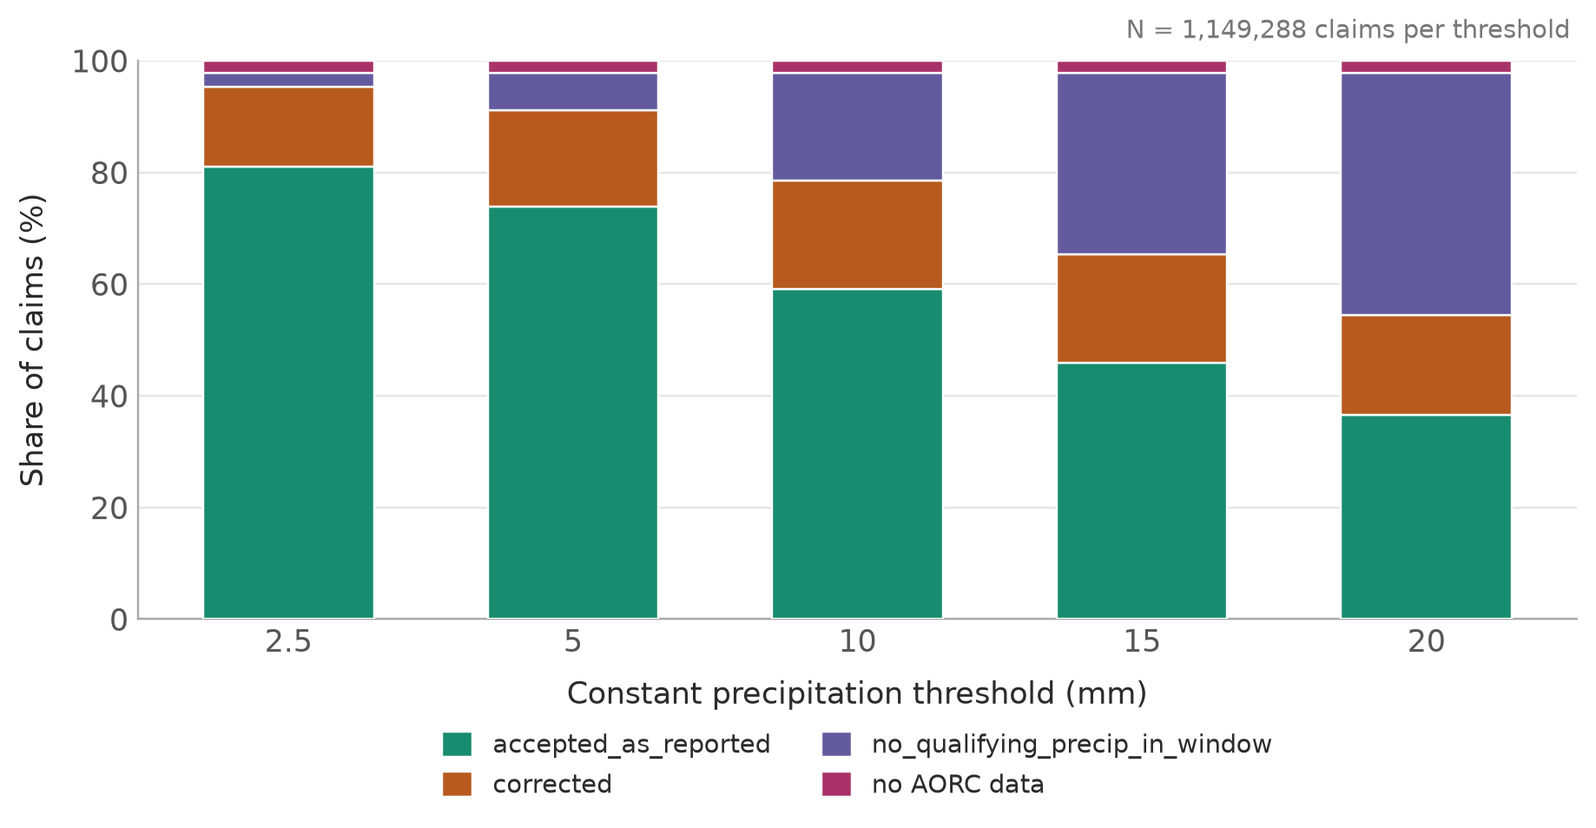
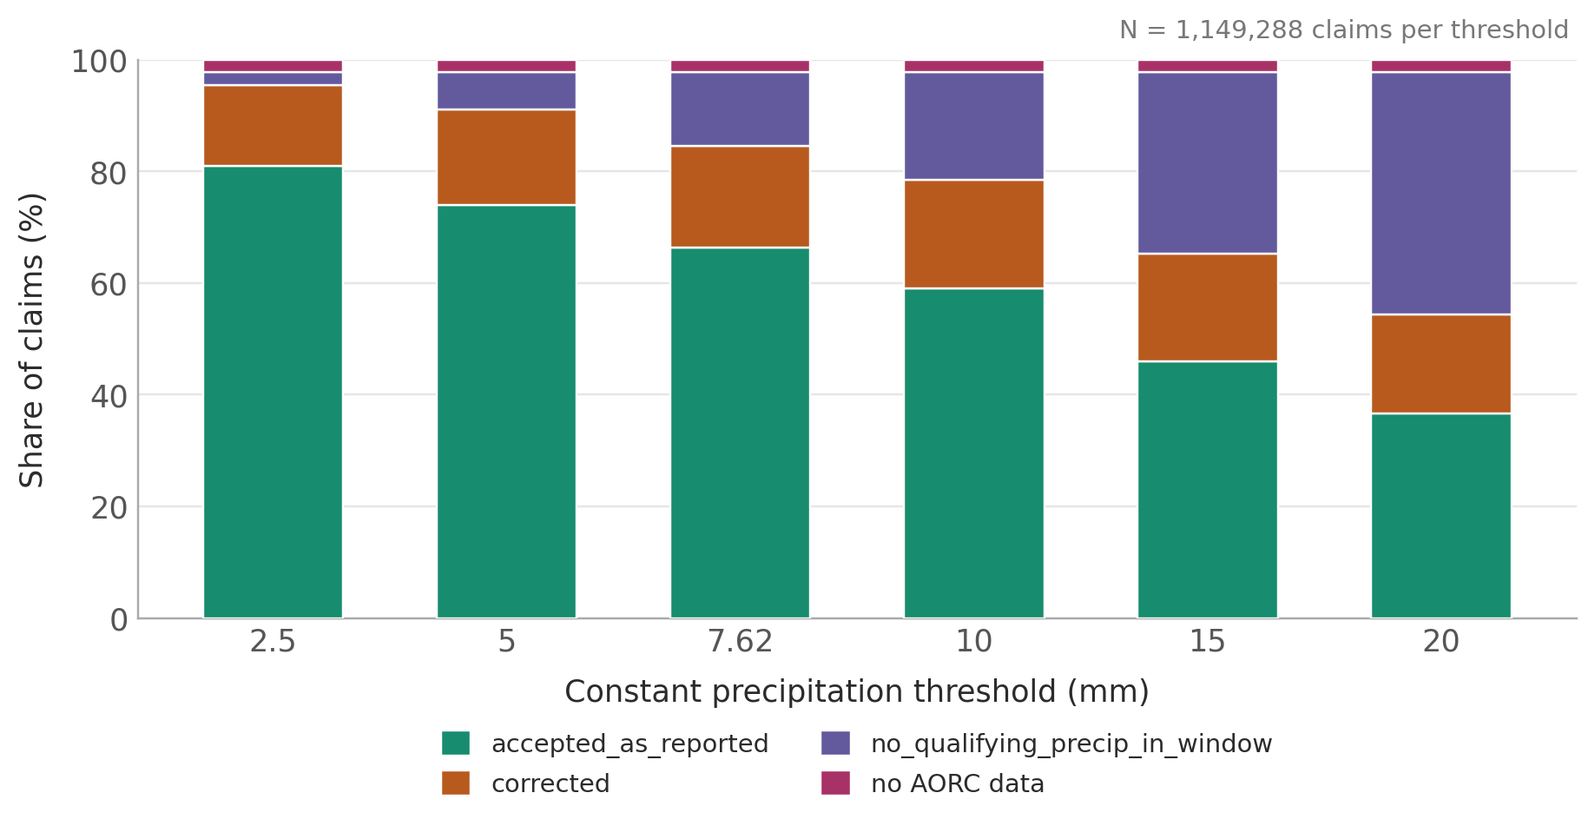
add: text

diff --git a/paper/manuscript.tex b/paper/manuscript.tex
@@ -12,6 +12,32 @@
   year         = {2026},
   url          = {https://stlouisfed.org},
 }
+@misc{ams_glossary_rain,
+  author       = {{American Meteorological Society}},
+  title        = {Rain},
+  howpublished = {Glossary of Meteorology, \url{https://glossary.ametsoc.org/wiki/Rain}},
+  year         = {2012},
+}
+
+@article{guerreiro_pluvial_2017,
+	title = {Pluvial {Flooding} in {European} {Cities}—{A} {Continental} {Approach} to {Urban} {Flood} {Modelling}},
+	volume = {9},
+	copyright = {http://creativecommons.org/licenses/by/3.0/},
+	issn = {2073-4441},
+	url = {https://www.mdpi.com/2073-4441/9/4/296},
+	doi = {10.3390/w9040296},
+	abstract = {Pluvial flooding is caused by localized intense rainfall and the flood models used to assess it are normally applied on a city (or part of a city) scale using local rainfall records and a high resolution digital elevation model (DEM). Here, we attempt to model pluvial flooding on a continental scale and calculate the percentage of area flooded for all European cities for a 10-year return period for hourly rainfall (RP10). Difficulties in obtaining hourly rainfall records compromise the estimation of each city RP10 and the Europe-wide DEM spatial resolution is low relative to those typically used for individual case-studies. Nevertheless, the modelling capabilities and necessary computing power make this type of continental study now possible. This is a first attempt at continental city flooding modelling and our methodology was designed so that our results can easily be updated as better/more data becomes available. The results for each city depend on the interplay of rainfall intensity, the elevation map of the city and the flow paths that are created. In general, cities with lower percentage of city flooded are in the north and west coastal areas of Europe, while the higher percentages are seen in continental and Mediterranean areas.},
+	language = {en},
+	number = {4},
+	urldate = {2026-08-18},
+	journal = {Water},
+	publisher = {Multidisciplinary Digital Publishing Institute},
+	author = {Guerreiro, Selma B. and Glenis, Vassilis and Dawson, Richard J. and Kilsby, Chris},
+	month = apr,
+	year = {2017},
+	keywords = {city flooding, Europe, pluvial flooding, urban flooding},
+	pages = {296},
+}
 
 
 @article{salas_learning_2023,
@@ -226,7 +252,7 @@ year = {2023}
 
 \end{filecontents*}
 
-\documentclass[7pt]{article}
+\documentclass[8pt]{article}
 
 \usepackage[margin=1in]{geometry}
 \usepackage{amsmath}
@@ -446,7 +472,7 @@ ZIP is matched to whichever configured ZCTA release is numerically
 closest to the loss year, including loss years before 2000, where the
 2000 release is the closest available (See \emph{Technical Validation}).
 
-Once a \emph{release} is selected, or unselected in the case of \texttt{drop}, we compute the spatial intersection of the boundaries (i.e. claim polygon = $\cap_{i}^{\text{n\_sources}} \text{polygon}_i$).
+Once a \emph{release} is selected, or unselected in the case of \texttt{drop}, we compute the spatial intersection of the boundaries (i.e. claim polygon = $\bigcap_{i=1}^{n} \text{polygon}_i$, where $n$ is the number of contributing sources).
 %
 In the worst case, we fall back to the $0.1 \times 0.1$ degree box defined by the rounded latitude/longitude, but in almost all cases the intersection of the three sources is a substantially smaller polygon.
 %
@@ -457,10 +483,28 @@ Our achieved spatial refinement is, however, not uniform in space and significan
 For each claim coded \texttt{causeOfDamage == "4"}, the reported
 \texttt{dateOfLoss} is checked against whether it coincides with a day
 of meaningful precipitation (maximum hourly precipitation exceeding a
-threshold, default 5.0 mm) at the claim's triangulated location.
-We refer to the NOAA AORC hourly accumulated precipitation product for reference.
+threshold, default 7.62 mm) at the claim's triangulated location.
+Peak hourly intensity, rather than daily-accumulated rainfall, is used
+as the criterion because pluvial flooding is characteristically caused
+by localized, intense rainfall and is conventionally assessed using
+local hourly rainfall records~\cite{guerreiro_pluvial_2017}. Pluvial
+flooding occurs when rainfall exceeds local drainage capacity within
+the short time it takes runoff to reach a drain or low point, so its
+risk is governed by short-duration rainfall intensity rather than by
+rainfall accumulated over a full day.
+
+To define this threshold, we refer to the NOAA AORC hourly accumulated precipitation product.
 %
-If the location's does not exceed the defined threshold, a window of nearby days (default $\pm$7) is searched for the day with the daily maximum hourly accumulated precipitation, and if that day clears the threshold it is treated as the corrected date. 
+If the reported date's precipitation does not exceed the defined threshold, a window of nearby days (default $\pm$7) is searched for the day with the daily maximum hourly accumulated precipitation, and if that day clears the threshold it is treated as the corrected date.
+%
+Within the window, the corrected date is chosen as the day with the
+greatest precipitation rather than the day nearest the reported date.
+This follows from a monotonic prior between precipitation intensity
+and pluvial flood risk. Among the days in the window that clear the qualifying
+threshold, the day with the highest precipitation is taken as the most
+probable candidate for the claim's true flood-triggering event,
+independent of which candidate day is closer in time to the reported
+date.
 %
 The original \texttt{dateOfLoss} is never overwritten. The corrected value and an explicit status code are added as new columns, letting downstream users decide whether to apply
 the correction.
@@ -473,7 +517,10 @@ A spatial field may be useful, as there is no principled reason a claim in an ar
 
 \begin{itemize}
   \item \textbf{Constant} --- the default, a single value applied
-    everywhere. The script defaults to 5.0 mm but this is configurable at run time.
+    everywhere. The script defaults to 7.62 mm (0.30 in), the threshold
+    the American Meteorological Society's Glossary of Meteorology uses
+    to define \emph{heavy} rainfall intensity~\cite{ams_glossary_rain},
+    but this is configurable at run time.
   \item \textbf{Spatial field} --- a user-supplied NetCDF raster
     sampled at each claim's exact location, giving a spatially varying
     threshold without requiring the raster to share AORC's grid or
@@ -522,15 +569,10 @@ are as follows.
     intersection of whichever of \{block-group boundary, ZCTA boundary,
     latitude/longitude box\} were available and spatially validated for the claim.
     Claims with zero contributing sources, or whose sources fail to
-    overlap one another (see \texttt{geometry\_is\_empty} below), are
-    excluded from the released file.
-  \item \texttt{n\_geometry\_sources} (0--3) and
+    overlap one another, are excluded from the released file.
+  \item \texttt{n\_geometry\_sources} (1--3) and
     \texttt{geometry\_sources} (e.g. \texttt{"block\_group+zip+latlon"})
     --- record which sources contributed.
-  \item \texttt{geometry\_is\_empty} --- true when a claim's sources
-    each individually validated against the reported latitude/longitude but do not
-    overlap one another. Such claims are dropped before the released
-    file is written, and the column is retained for downstream QA.
   \item \texttt{block\_group\_vintage\_used} and
     \texttt{zip\_vintage\_used} --- the boundary-release year (e.g.\
     1990, 2000, 2010, or 2020) selected for the claim by the
@@ -562,7 +604,7 @@ are as follows.
     reported \texttt{dateOfLoss}, before any correction. This is the
     value checked against the threshold to decide whether correction is
     attempted at all.
-  \item \texttt{pluvialCorrectionMaxPrecipMm} --- the maximum daily
+  \item \texttt{pluvialCorrectionMaxPrecipMm} --- the maximum hourly
     precipitation (mm) found at the claim's location on the date
     \texttt{correctedDateOfLoss} refers to.
 \end{itemize}
@@ -634,8 +676,8 @@ for block group, which is why \texttt{default} uses a single cutover
 year (2020) rather than a historical loss-year rule.
 
 Table~\ref{tab:block-group-match-status} gives the full
-\texttt{block\_group\_match\_status} breakdown across the release 
-file's full pluvial CONUS population using the \texttt{default} strategy. 
+\texttt{block\_group\_match\_status} breakdown across the released
+file's full pluvial CONUS population using the \texttt{default} strategy.
 
 \begin{table}[H]
 \centering
@@ -690,9 +732,9 @@ the near-flat match rates observed across all three ZCTA releases.
 Furthermore, the \texttt{closest} strategy aligns with existing work
 that joins NFIP claims to external sources (e.g.\ the American
 Community Survey)~\cite{cano_pecharroman_exposing_2024,
-crespo_flood_2019} and thus elect this strategy as the default for ZCTA.
+crespo_flood_2019} and thus we elect this strategy as the default for ZCTA.
 
-However, as with \texttt{block\_group\_strategy},the  \texttt{zcta\_strategy} parameter remains configurable.
+However, as with \texttt{block\_group\_strategy}, the \texttt{zcta\_strategy} parameter remains configurable.
 
 Table~\ref{tab:zip-match-status} gives the full \texttt{zip\_match\_status}
 breakdown across the released file's full pluvial CONUS population under the \texttt{default} strategy. 
@@ -742,23 +784,23 @@ triangulated polygon, across the released file's 1,149,288 claims.}
 
 Figure~\ref{fig:polygon-area-histogram} (top) and
 Table~\ref{tab:polygon-area-histogram} show the resulting distribution
-of triangulated \texttt{polygon\_area}. 909,180 claims (79.2\% of the
-1,148,274 claims falling within the 0--115 km$^2$ range shown) resolve
-to a polygon of 5 km$^2$ or smaller, and the distribution is
-heavily right-skewed, with claim counts falling off sharply past
-20 km$^2$. 1,014 claims (0.09\%) fall outside this range. The median
-triangulated polygon area is 1.17 km$^2$, and the mean is 5.21 km$^2$,
-pulled well above the median by this right tail.
+of triangulated \texttt{polygon\_area} across the released file's full
+1,149,288 claims, all of which fall within the 0--115 km$^2$ range
+shown. 910,194 claims (79.2\%) resolve to a polygon of 5 km$^2$ or
+smaller, and the distribution is heavily right-skewed, with claim
+counts falling off sharply past 20 km$^2$. The median triangulated
+polygon area is 1.17 km$^2$, and the mean is 5.21 km$^2$, pulled well
+above the median by this right tail.
 
 Figure~\ref{fig:polygon-area-histogram} (bottom) and
 Table~\ref{tab:area-reduction-histogram} show, for each claim, how the
 final triangulated \texttt{polygon\_area} compares to the area of the
 0.1$^\circ$$\times$0.1$^\circ$ lat/lon box source, computed as
 $1 - (\texttt{polygon\_area} / \text{lat-lon box area})$ and expressed
-as a percentage. Across the 1,148,432 claims with a defined lat/lon box
-source, 885,512 (77.1\%) show a reduction of at least 95.8\%, and the
-distribution is heavily left-skewed toward this upper end. The mean
-reduction is 94.9\%, and the median is 98.9\%.
+as a percentage. Across the released file's 1,149,288 claims, 923,947
+(80.4\%) show a reduction of at least 94.7\%, and the distribution is
+heavily left-skewed toward this upper end. The mean reduction is
+94.9\%, and the median is 98.9\%.
 
 \begin{figure}[H]
 \centering
@@ -781,7 +823,7 @@ lat/lon box source area and the final triangulated
 
 \textbf{Date-correction outcomes.} Table~\ref{tab:pluvial-correction-status}
 gives the full \texttt{pluvialCorrectionStatus} breakdown across the
-released file's 1,149,288 claims, under the default 5.0 mm constant
+released file's 1,149,288 claims, under the default 7.62 mm constant
 precipitation threshold. \texttt{no\_aorc\_data\_in\_window} arises,
 for example, when a claim sits on a small land mass whose four
 surrounding AORC grid points for bilinear interpolation are all ocean
@@ -792,18 +834,33 @@ Figure~\ref{fig:precip-histogram} and
 Table~\ref{tab:precip-histogram} show the distribution of
 \texttt{reportedDateMaxPrecipMm}, the maximum hourly precipitation at
 each pluvial claim's triangulated location on the reported
-\texttt{dateOfLoss}, before any correction is applied. Of the
-1,037,422 claims evaluated for date correction, 187,805 (18.1\%) fall
-at or below the 5.0 mm default threshold, the population eligible to
-have their date corrected under the default constant threshold.
+\texttt{dateOfLoss}, before any correction is applied. This value is
+populated only when AORC has valid data on that specific date, a
+narrower condition than the one \texttt{pluvialCorrectionStatus} is
+decided under, which instead uses the best precipitation found
+anywhere across the full $\pm$7-day search window. A claim can
+therefore still be \texttt{corrected} or
+\texttt{no\_qualifying\_precip\_in\_window} even when AORC is missing
+data on the reported date itself, so long as some other day in the
+window has data, leaving \texttt{reportedDateMaxPrecipMm} undefined
+for 111,866 of the released file's 1,149,288 claims. Of these, 12,425
+are \texttt{before\_aorc\_coverage} (never evaluated) and 12,201 are
+\texttt{no\_aorc\_data\_in\_window} (no day in the window has data, the
+reported date included), while the remaining 87,240 are
+\texttt{corrected} or \texttt{no\_qualifying\_precip\_in\_window}
+claims resolved from a different day in the window than the one
+missing data. Of the 1,037,422 claims with a defined
+\texttt{reportedDateMaxPrecipMm}, 275,139 (26.5\%) fall at or below
+the 7.62 mm default threshold, the population eligible to have their
+date corrected under the default constant threshold.
 
-Under the default uniform 5.0 mm threshold, 198,180 of 1,149,288 claims (17.2\%) have a
+Under the default uniform 7.62 mm threshold, 210,488 of 1,149,288 claims (18.3\%) have a
 \texttt{correctedDateOfLoss} that differs from the originally reported
 \texttt{dateOfLoss}. Figure~\ref{fig:threshold-sweep} and
 Table~\ref{tab:threshold-sweep} show how the full
 \texttt{pluvialCorrectionStatus} breakdown responds to the constant
-precipitation threshold, swept over five values (2.5, 5, 10, 15, and
-20 mm) with the search window otherwise unchanged. The
+precipitation threshold, swept over six values (2.5, 5, 7.62, 10, 15,
+and 20 mm) with the search window otherwise unchanged. The
 \texttt{corrected} share is not monotonic in the threshold. It rises
 from 14.3\% at 2.5 mm to a peak of 19.4\% at 10 mm, then falls to
 17.8\% at 20 mm, reflecting two opposing effects as the threshold
@@ -818,7 +875,7 @@ are each unaffected by the threshold and together account for a
 constant 2.1\% of claims across the sweep.
 
 Figure~\ref{fig:day-shift-histogram} and
-Table~\ref{tab:day-shift-histogram} show, for the same five
+Table~\ref{tab:day-shift-histogram} show, for the same six
 thresholds, the distribution of the resulting shift in
 \texttt{correctedDateOfLoss} away from the originally reported
 \texttt{dateOfLoss}. The figure covers \texttt{corrected} claims only,
@@ -847,15 +904,16 @@ the table.
 \toprule
 \texttt{pluvialCorrectionStatus} & $n$ claims & \% & Why \\
 \midrule
-\texttt{accepted\_as\_reported} & 849{,}618 & 73.93\% & Reported date already coincided with meaningful precipitation \\
-\texttt{corrected} & 198{,}180 & 17.24\% & A qualifying day was found within the search window \\
-\texttt{no\_qualifying\_precip\_in\_window} & 76{,}864 & 6.69\% & AORC data was available, but no day in the window cleared the threshold \\
+\texttt{accepted\_as\_reported} & 762{,}284 & 66.33\% & Reported date already coincided with meaningful precipitation \\
+\texttt{corrected} & 210{,}488 & 18.31\% & A qualifying day was found within the search window \\
+\texttt{no\_qualifying\_precip\_in\_window} & 151{,}890 & 13.22\% & AORC data was available, but no day in the window cleared the threshold \\
 \texttt{before\_aorc\_coverage} & 12{,}425 & 1.08\% & \texttt{dateOfLoss} predates AORC's 1979-02-01 start, never evaluated \\
 \texttt{no\_aorc\_data\_in\_window} & 12{,}201 & 1.06\% & Evaluated, but every hour of every day in the search window was missing from AORC \\
 \bottomrule
 \end{tabular}
 \caption{\texttt{pluvialCorrectionStatus} breakdown across the full
-released population. For \texttt{accepted\_as\_reported} and
+released population, under the default 7.62 mm constant precipitation
+threshold. For \texttt{accepted\_as\_reported} and
 \texttt{corrected}, \texttt{correctedDateOfLoss} reflects a day of
 qualifying precipitation. For the remaining statuses it equals the
 originally reported date, per its always-populated fallback behavior
@@ -866,8 +924,8 @@ described in Data Records.}
 \begin{figure}[H]
 \centering
 \includegraphics[width=0.75\textwidth]{figures/precip_histogram.png}
-\caption{Distribution of \texttt{reportedDateMaxPrecipMm} across
-pluvial claims evaluated for date correction.}
+\caption{Distribution of \texttt{reportedDateMaxPrecipMm} across the
+1,037,422 pluvial claims with a defined \texttt{reportedDateMaxPrecipMm}.}
 \label{fig:precip-histogram}
 \end{figure}
 
@@ -877,8 +935,9 @@ pluvial claims evaluated for date correction.}
 \centering
 \includegraphics[width=0.75\textwidth]{figures/threshold_sweep.png}
 \caption{\texttt{pluvialCorrectionStatus} breakdown across the
-released file's claims, swept over five constant precipitation
-thresholds (2.5, 5, 10, 15, and 20 mm). \texttt{no\_aorc\_data}
+released file's claims, swept over six constant precipitation
+thresholds (2.5, 5, 7.62, 10, 15, and 20 mm; 7.62 mm is the released
+default). \texttt{no\_aorc\_data}
 combines \texttt{no\_aorc\_data\_in\_window} with the
 threshold-invariant \texttt{before\_aorc\_coverage}.}
 \label{fig:threshold-sweep}
@@ -892,7 +951,8 @@ threshold-invariant \texttt{before\_aorc\_coverage}.}
 \caption{Distribution of the shift in \texttt{correctedDateOfLoss}
 away from the originally reported \texttt{dateOfLoss} (days, negative
 = earlier) among \texttt{corrected} claims, one row per constant
-precipitation threshold swept (2.5, 5, 10, 15, and 20 mm).}
+precipitation threshold swept (2.5, 5, 7.62, 10, 15, and 20 mm; 7.62
+mm is the released default).}
 \label{fig:day-shift-histogram}
 \end{figure}
 

diff --git a/paper/tables/day_shift_histogram.tex b/paper/tables/day_shift_histogram.tex
@@ -8,11 +8,12 @@ Threshold (mm) & $-7$ & $-6$ & $-5$ & $-4$ & $-3$ & $-2$ & $-1$ & $0$ & $+1$ & $
 \midrule
 2.5 & 0.7\% & 0.7\% & 0.8\% & 0.9\% & 1.0\% & 1.6\% & 3.1\% & 81.0\% & 1.3\% & 1.0\% & 0.5\% & 0.5\% & 0.6\% & 0.8\% & 0.8\% \\
 5 & 0.7\% & 0.7\% & 0.8\% & 1.0\% & 1.1\% & 1.9\% & 4.9\% & 73.9\% & 1.8\% & 1.0\% & 0.5\% & 0.5\% & 0.8\% & 0.8\% & 0.9\% \\
+\rowcolor{gray!15}7.62\textsuperscript{*} & 0.7\% & 0.6\% & 0.7\% & 0.9\% & 1.2\% & 1.9\% & 5.7\% & 66.3\% & 2.8\% & 0.8\% & 0.5\% & 0.5\% & 0.5\% & 0.8\% & 0.8\% \\
 10 & 0.7\% & 0.6\% & 0.7\% & 1.0\% & 1.2\% & 1.8\% & 5.9\% & 59.1\% & 3.6\% & 0.8\% & 0.5\% & 0.5\% & 0.4\% & 0.7\% & 0.9\% \\
 15 & 0.6\% & 0.5\% & 0.6\% & 1.3\% & 1.3\% & 1.5\% & 5.7\% & 46.0\% & 4.9\% & 0.7\% & 0.4\% & 0.4\% & 0.4\% & 0.4\% & 0.8\% \\
 20 & 0.4\% & 0.4\% & 0.4\% & 1.4\% & 1.2\% & 1.3\% & 5.0\% & 36.6\% & 5.3\% & 0.6\% & 0.3\% & 0.3\% & 0.3\% & 0.3\% & 0.6\% \\
 \bottomrule
 \end{tabular}
-\caption{Share of the released file's 1,149,288 claims by shift in \texttt{correctedDateOfLoss} away from the originally reported \texttt{dateOfLoss} (days, negative = earlier), swept over five constant precipitation thresholds, with every column sharing the same 1,149,288-claim denominator. The $0$ column holds \texttt{accepted\_as\_reported} claims, for which \texttt{correctedDateOfLoss} equals \texttt{dateOfLoss} by definition (shift $=0$); the $\pm1$ through $\pm7$ columns hold \texttt{corrected} claims. Claims with \texttt{no\_qualifying\_precip\_in\_window} or no AORC data are never assigned a shift and so are outside this table's scope, which is why rows do not sum to 100\%. Table~\ref{tab:threshold-sweep} gives the full \texttt{pluvialCorrectionStatus} breakdown per threshold.}
+\caption{Share of the released file's 1,149,288 claims by shift in \texttt{correctedDateOfLoss} away from the originally reported \texttt{dateOfLoss} (days, negative = earlier), swept over six constant precipitation thresholds, with every column sharing the same 1,149,288-claim denominator. \textsuperscript{*}7.62 mm (shaded) is the released default. The $0$ column holds \texttt{accepted\_as\_reported} claims, for which \texttt{correctedDateOfLoss} equals \texttt{dateOfLoss} by definition (shift $=0$); the $\pm1$ through $\pm7$ columns hold \texttt{corrected} claims. Claims with \texttt{no\_qualifying\_precip\_in\_window} or no AORC data are never assigned a shift and so are outside this table's scope, which is why rows do not sum to 100\%. Table~\ref{tab:threshold-sweep} gives the full \texttt{pluvialCorrectionStatus} breakdown per threshold.}
 \label{tab:day-shift-histogram}
 \end{table}

diff --git a/paper/tables/area_reduction_histogram.tex b/paper/tables/area_reduction_histogram.tex
@@ -4,20 +4,18 @@
 \toprule
 Bin (\%) & $n$ claims & \% & Bin (\%) & $n$ claims & \% \\
 \midrule
-0.0--4.2 & 967 & 0.1\% & 50.0--54.2 & 3,233 & 0.3\% \\
-4.2--8.3 & 811 & 0.1\% & 54.2--58.3 & 4,749 & 0.4\% \\
-8.3--12.5 & 922 & 0.1\% & 58.3--62.5 & 5,466 & 0.5\% \\
-12.5--16.7 & 870 & 0.1\% & 62.5--66.7 & 6,985 & 0.6\% \\
-16.7--20.8 & 1,055 & 0.1\% & 66.7--70.8 & 8,474 & 0.7\% \\
-20.8--25.0 & 977 & 0.1\% & 70.8--75.0 & 9,682 & 0.8\% \\
-25.0--29.2 & 1,119 & 0.1\% & 75.0--79.2 & 12,403 & 1.1\% \\
-29.2--33.3 & 2,500 & 0.2\% & 79.2--83.3 & 16,478 & 1.4\% \\
-33.3--37.5 & 2,092 & 0.2\% & 83.3--87.5 & 27,118 & 2.4\% \\
-37.5--41.7 & 2,394 & 0.2\% & 87.5--91.7 & 43,559 & 3.8\% \\
-41.7--45.8 & 2,420 & 0.2\% & 91.7--95.8 & 104,249 & 9.1\% \\
-45.8--50.0 & 4,397 & 0.4\% & 95.8--100.0 & 885,512 & 77.1\% \\
+0.0--5.3 & 1,959 & 0.2\% & 52.6--57.9 & 5,820 & 0.5\% \\
+5.3--10.5 & 1,268 & 0.1\% & 57.9--63.2 & 6,792 & 0.6\% \\
+10.5--15.8 & 894 & 0.1\% & 63.2--68.4 & 9,839 & 0.9\% \\
+15.8--21.1 & 1,382 & 0.1\% & 68.4--73.7 & 11,287 & 1.0\% \\
+21.1--26.3 & 1,265 & 0.1\% & 73.7--78.9 & 14,909 & 1.3\% \\
+26.3--31.6 & 2,718 & 0.2\% & 78.9--84.2 & 21,492 & 1.9\% \\
+31.6--36.8 & 2,381 & 0.2\% & 84.2--89.5 & 39,238 & 3.4\% \\
+36.8--42.1 & 2,826 & 0.2\% & 89.5--94.7 & 92,900 & 8.1\% \\
+42.1--47.4 & 4,048 & 0.4\% & 94.7--100.0 & 923,947 & 80.4\% \\
+47.4--52.6 & 4,323 & 0.4\% &  & &  \\
 \bottomrule
 \end{tabular}
-\caption{Bin counts of the fractional area reduction between the 0.1$^\circ$$\times$0.1$^\circ$ lat/lon box source area and the final triangulated \texttt{polygon\_area}, across the 1,148,432 claims with a defined lat/lon box source.}
+\caption{Bin counts of the fractional area reduction between the 0.1$^\circ$$\times$0.1$^\circ$ lat/lon box source area and the final triangulated \texttt{polygon\_area}, across the released file's 1,149,288 claims.}
 \label{tab:area-reduction-histogram}
 \end{table}

diff --git a/paper/tables/threshold_sweep.tex b/paper/tables/threshold_sweep.tex
@@ -7,11 +7,12 @@ Threshold (mm) & accepted as reported & corrected & no qualifying precip in wind
 \midrule
 2.5 & 81.0\% & 14.3\% & 2.5\% & 2.1\% \\
 5 & 73.9\% & 17.2\% & 6.7\% & 2.1\% \\
+\rowcolor{gray!15}7.62\textsuperscript{*} & 66.3\% & 18.3\% & 13.2\% & 2.1\% \\
 10 & 59.1\% & 19.4\% & 19.4\% & 2.1\% \\
 15 & 46.0\% & 19.3\% & 32.5\% & 2.1\% \\
 20 & 36.6\% & 17.8\% & 43.4\% & 2.1\% \\
 \bottomrule
 \end{tabular}
-\caption{\texttt{pluvialCorrectionStatus} share of the released file's 1,149,288 claims, swept over five constant precipitation thresholds. Columns correspond to \texttt{accepted\_as\_reported}, \texttt{corrected}, \texttt{no\_qualifying\_precip\_in\_window}, and, combined, \texttt{no\_aorc\_data\_in\_window} with the threshold-invariant \texttt{before\_aorc\_coverage}. Table~\ref{tab:pluvial-correction-status} gives the full $n$ claims breakdown at the default 5.0 mm threshold.}
+\caption{\texttt{pluvialCorrectionStatus} share of the released file's 1,149,288 claims, swept over six constant precipitation thresholds. Columns correspond to \texttt{accepted\_as\_reported}, \texttt{corrected}, \texttt{no\_qualifying\_precip\_in\_window}, and, combined, \texttt{no\_aorc\_data\_in\_window} with the threshold-invariant \texttt{before\_aorc\_coverage}. \textsuperscript{*}7.62 mm (shaded) is the released default. Table~\ref{tab:pluvial-correction-status} gives the full $n$ claims breakdown at this default threshold.}
 \label{tab:threshold-sweep}
 \end{table}

diff --git a/paper/tables/polygon_area_histogram.tex b/paper/tables/polygon_area_histogram.tex
@@ -4,7 +4,7 @@
 \toprule
 Bin (km$^2$) & $n$ claims & \% & Bin (km$^2$) & $n$ claims & \% \\
 \midrule
-0--5 & 909,180 & 79.1\% & 60--65 & 2,829 & 0.2\% \\
+0--5 & 910,194 & 79.2\% & 60--65 & 2,829 & 0.2\% \\
 5--10 & 97,544 & 8.5\% & 65--70 & 2,349 & 0.2\% \\
 10--15 & 40,798 & 3.5\% & 70--75 & 2,232 & 0.2\% \\
 15--20 & 24,614 & 2.1\% & 75--80 & 1,585 & 0.1\% \\
@@ -18,6 +18,6 @@ Bin (km$^2$) & $n$ claims & \% & Bin (km$^2$) & $n$ claims & \% \\
 55--60 & 3,395 & 0.3\% &  & &  \\
 \bottomrule
 \end{tabular}
-\caption{Triangulated \texttt{polygon\_area} bin counts (km$^2$) across the released file's 1,149,288 claims. 1,014 claims (0.09\%) fall outside the 0--115 km$^2$ range shown.}
+\caption{Triangulated \texttt{polygon\_area} bin counts (km$^2$) across the released file's 1,149,288 claims. All fall within the 0--115 km$^2$ range shown.}
 \label{tab:polygon-area-histogram}
 \end{table}

diff --git a/paper/tables/precip_histogram.tex b/paper/tables/precip_histogram.tex
@@ -22,6 +22,6 @@ Bin (mm) & $n$ claims & \% & Bin (mm) & $n$ claims & \% \\
 75--80 & 17,559 & 1.7\% &  & &  \\
 \bottomrule
 \end{tabular}
-\caption{\texttt{reportedDateMaxPrecipMm} bin counts across the 1,037,422 pluvial claims evaluated for date correction.}
+\caption{\texttt{reportedDateMaxPrecipMm} bin counts across the 1,037,422 pluvial claims with a defined \texttt{reportedDateMaxPrecipMm}.}
 \label{tab:precip-histogram}
 \end{table}
